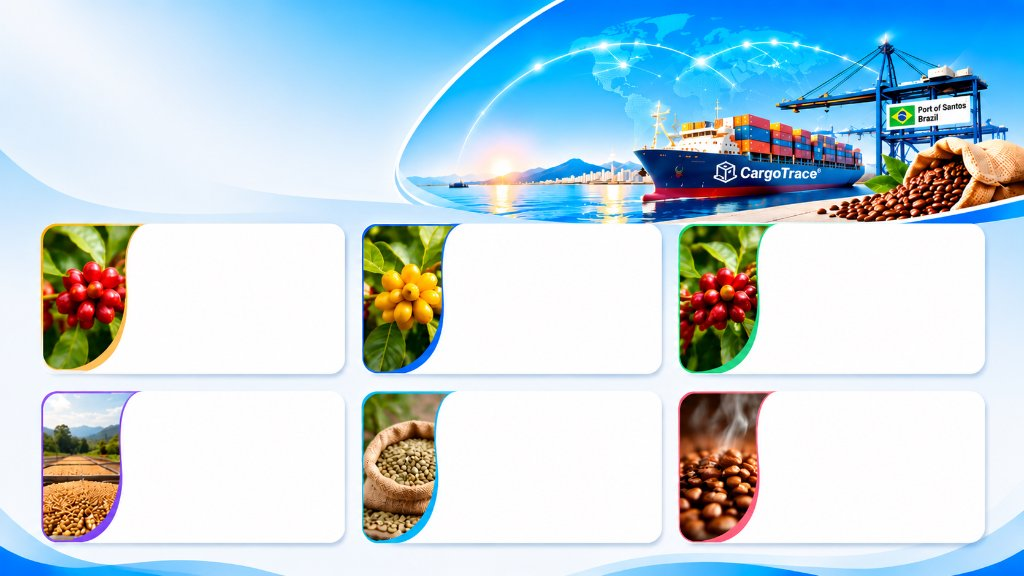
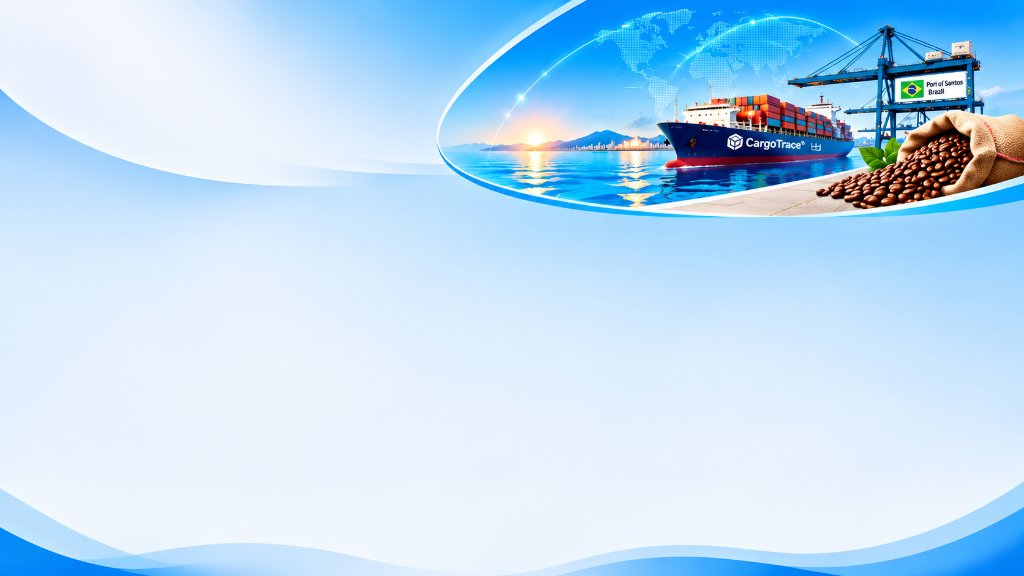
fix: replace Produk background with clean user asset and adjust section padding and dimensions

diff --git a/resources/views/landing.blade.php b/resources/views/landing.blade.php
@@ -533,31 +533,31 @@
     {{-- ========================================================================= --}}
     {{-- SECTION 3: PRODUK KOPI SPESIALTI BRASIL (6 Authentic Database Varieties) --}}
     {{-- ========================================================================= --}}
-    <section id="produk" class="py-16 sm:py-20 lg:py-24 relative overflow-hidden"
-             style="background-image: var(--produk-bg-img); background-size: cover; background-position: top right; background-repeat: no-repeat;">
+    <section id="produk" class="py-12 sm:py-16 lg:py-20 relative overflow-hidden flex flex-col justify-between"
+             style="background-image: var(--produk-bg-img); background-size: cover; background-position: center top; background-repeat: no-repeat;">
         <div class="w-full max-w-7xl mx-auto px-4 sm:px-6 lg:px-8 relative z-10">
             
             {{-- Section Header (Left-aligned, leaving top-right ship illustration unobstructed) --}}
-            <div class="w-full lg:max-w-xl xl:max-w-2xl text-left mb-10 sm:mb-12">
-                <div class="flex items-center gap-2.5 mb-3">
+            <div class="w-full lg:max-w-xl xl:max-w-2xl text-left mb-8 sm:mb-10">
+                <div class="flex items-center gap-2.5 mb-2.5">
                     <div class="h-1 w-8 rounded-full" style="background: var(--brand-cyan)"></div>
                     <span class="text-xs sm:text-sm font-bold tracking-wider uppercase" style="color: var(--text-heading)">
                         {{ __('KATALOG KOMODITAS EKSPOR') }}
                     </span>
                 </div>
                 
-                <h2 class="font-outfit text-3xl sm:text-4xl lg:text-5xl font-extrabold tracking-tight leading-[1.15] mb-4"
+                <h2 class="font-outfit text-3xl sm:text-4xl lg:text-5xl font-extrabold tracking-tight leading-[1.15] mb-3 sm:mb-4"
                     style="color: var(--text-heading)">
                     {{ __('Pilihan Kopi Spesialti') }} <span style="color: var(--brand-cyan)">{{ __('Brasil Terbaik') }}</span>
                 </h2>
                 
-                <p class="text-sm sm:text-base leading-relaxed font-normal" style="color: var(--text-body)">
+                <p class="text-xs sm:text-sm lg:text-base leading-relaxed font-normal" style="color: var(--text-body)">
                     {{ __('Dipanen langsung dari perkebunan dataran tinggi terbaik Brasil, disortir dengan ketat sesuai standar Specialty Coffee Association (SCA) sebelum diberangkatkan dari Pelabuhan Santos.') }}
                 </p>
             </div>
 
             {{-- 6 Coffee Varieties Grid (3 Columns on Desktop, 2 on Tablet, 1 on Mobile) --}}
-            <div class="grid grid-cols-1 md:grid-cols-2 lg:grid-cols-3 gap-5 sm:gap-6">
+            <div class="grid grid-cols-1 md:grid-cols-2 lg:grid-cols-3 gap-4 sm:gap-5 lg:gap-6 pb-6">
                 
                 {{-- Product 1: Brazil Santos Bourbon Specialty --}}
                 <div class="theme-card rounded-3xl overflow-hidden flex flex-row items-stretch border transition hover:-translate-y-1 hover:shadow-xl"
@@ -825,14 +825,6 @@
 
             </div>
 
-        </div>
-
-        {{-- Flowing Ocean Wave at bottom of Produk --}}
-        <div class="w-full overflow-hidden leading-none pt-12 sm:pt-16 pointer-events-none">
-            <svg viewBox="0 0 1440 70" fill="none" xmlns="http://www.w3.org/2000/svg" class="w-full h-8 sm:h-12" preserveAspectRatio="none">
-                <path d="M0,35 C320,65 640,5 960,40 C1200,60 1360,25 1440,35 L1440,70 L0,70 Z" fill="var(--wave-2)" opacity="0.3"/>
-                <path d="M0,45 C280,15 600,65 920,30 C1180,50 1340,20 1440,45 L1440,70 L0,70 Z" fill="var(--wave-1)" opacity="0.6"/>
-            </svg>
         </div>
     </section>
 
